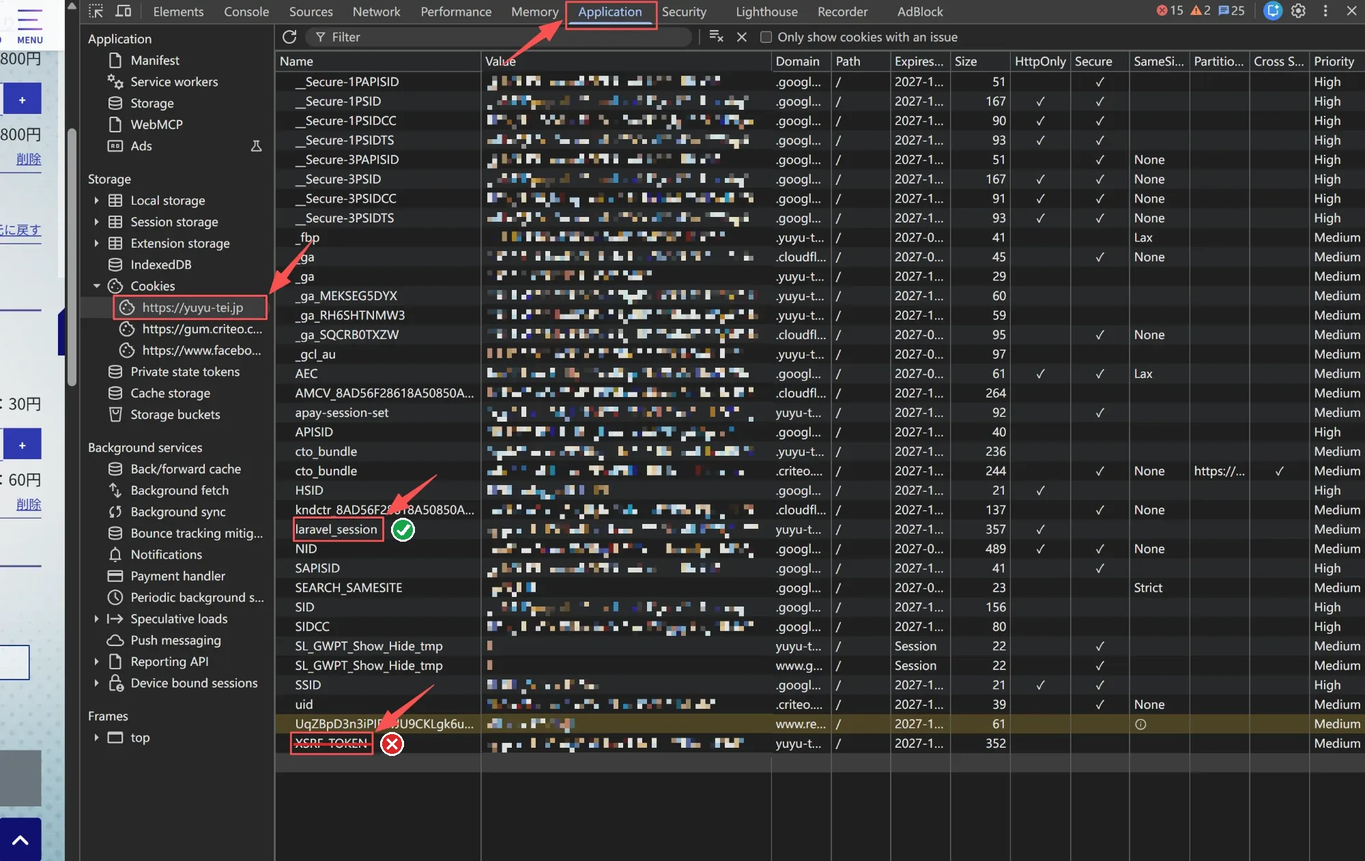
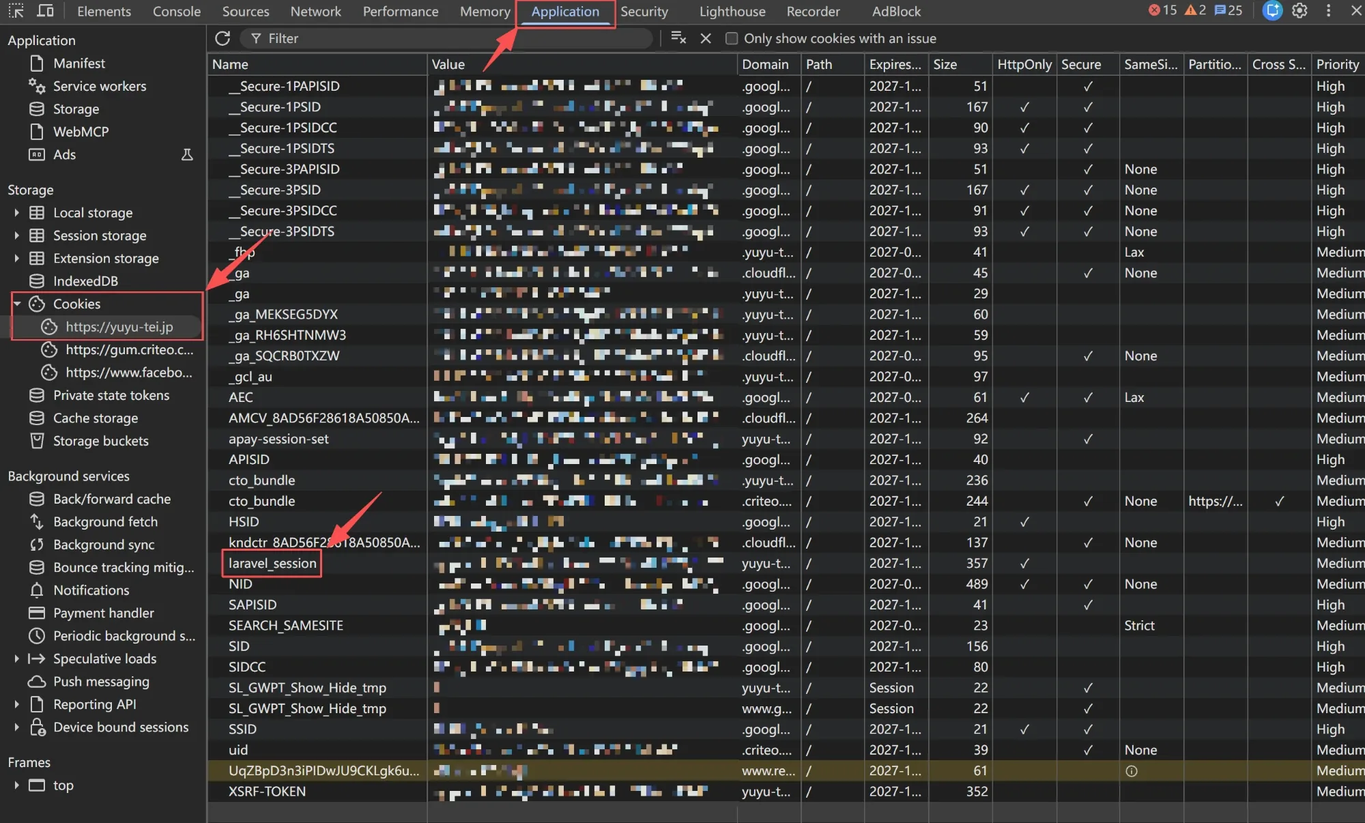
Optimize credentials settings.

diff --git a/src/tcg_toolkit/static/locales.js b/src/tcg_toolkit/static/locales.js
@@ -204,13 +204,27 @@ export const messages = {
     "cart_out_of_date": "The cart changed elsewhere and was refreshed.",
     "cart_ambiguous": "Several matching cart rows; adjust it on YuYu-Tei.",
     "cart_failed": "Cart request failed. Please retry.",
-    "cart_settings_title": "YuYu-Tei cart",
-    "cart_settings_intro": "Used to add cards to your YuYu-Tei cart from search results. Credentials are kept only in this browser tab (sessionStorage) and are cleared when you close the tab or sign out. This site sends them with each cart request and never stores them.",
+    "cart_settings_title": "YuYu-Tei login credentials",
+    "cart_settings_intro_lead": "Used to work directly with your YuYu-Tei cart; if not set up, only cart features are affected.",
+    "cart_settings_intro": "Credentials are stored only locally in this browser tab (sessionStorage) and are cleared when you close the tab or sign out. This site sends them only with each cart request and never stores them on the server.",
     "cart_curl_label": "Import from cURL",
-    "cart_curl_help": "In YuYu-Tei DevTools → Network, copy a cart request as cURL (bash or cmd) and paste it here. Parsed and saved only in this tab; importing sends no request.",
+    "cart_curl_step_1": "On yuyu-tei.jp, open developer tools (F12) → Network, then add, change or remove any item in your cart so a cart_service request appears.",
+    "cart_curl_step_2": "Right-click the cart_service request → Copy → Copy as cURL (cmd) or Copy as cURL (bash).",
+    "cart_curl_figure": "Network → right-click cart_service → Copy → Copy as cURL (cookie values blurred).",
+    "cart_curl_figure_alt": "Developer tools Network panel with the cart_service request selected and its context menu open at Copy as cURL; the Cookie header value is blurred",
+    "cart_curl_step_3": "Paste it into the box above and choose “Save and verify”. The copied text contains your login cookie; do not share it.",
+    "cart_unverified_badge": "Saved · not verified",
+    "cart_settings_collapse": "Collapse",
+    "cart_settings_edit": "Reconfigure",
+    "cart_credentials_need_update": "Needs updating",
+    "cart_route_fallback": "Alternative",
+    "cart_route_curl": "Option 2: Import from cURL",
+    "cart_route_or": "or",
+    "cart_route_manual_desc": "Copy two values from your browser's developer tools. Works in every browser; see “How to find these” below.",
+    "cart_route_recommended": "Recommended",
+    "cart_route_manual": "Option 1: Cookie + CSRF token",
+    "cart_curl_help": "In YuYu-Tei DevTools → Network, copy a cart request as cURL (bash or cmd) and paste it here.",
     "cart_curl_placeholder": "Paste the copied curl command",
-    "cart_curl_save": "Extract and save locally",
-    "cart_curl_saved": "Saved in this tab. Credentials have not been verified.",
     "cart_curl_invalid": "Could not extract credentials. Copy a complete cURL request containing one laravel_session Cookie and one X-CSRF-TOKEN header.",
     "cart_cookie": "Cookie (laravel_session)",
     "cart_cookie_placeholder": "laravel_session value, or the whole Cookie header",
@@ -219,15 +233,17 @@ export const messages = {
     "cart_help_title": "How to find these",
     "cart_help_1": "Sign in to yuyu-tei.jp in this browser and press F12 to open developer tools.",
     "cart_help_2": "Cookie: open Application → Storage → Cookies → https://yuyu-tei.jp, find laravel_session and double-click its Value to copy it. Paste it exactly as shown; do not decode %3D and similar.",
-    "cart_help_figure": "Use laravel_session (✓). XSRF-TOKEN (✗) is not the CSRF token.",
-    "cart_help_figure_alt": "Developer tools Application panel listing yuyu-tei.jp cookies, with laravel_session marked as the one to copy and XSRF-TOKEN crossed out",
+    "cart_help_figure": "Application → Cookies → https://yuyu-tei.jp: copy the Value of laravel_session.",
+    "cart_help_figure_alt": "Developer tools Application panel listing yuyu-tei.jp cookies, with Cookies, https://yuyu-tei.jp and laravel_session highlighted",
+    "cart_help_console_alt": "Developer tools Console running the csrf-token command, with the returned token highlighted (value blurred)",
+    "cart_help_console_figure": "Console: paste the line, press Enter, and copy the text between the quotes.",
     "cart_help_xsrf": "The XSRF-TOKEN cookie is Laravel's encrypted copy of the token (about 340 characters) and is always rejected here.",
     "cart_help_3": "CSRF token: on any yuyu-tei.jp page in the same session, switch to Console, run the line below and copy the result without the quotes:",
     "cart_help_3_note": "It is usually 40 characters. Alternatively, view the page source and copy the content of <meta name=\"csrf-token\">.",
     "cart_help_4": "If YuYu-Tei signs you out, or you sign in again there, copy both values again.",
     "cart_save": "Save and verify",
-    "cart_clear": "Clear",
-    "cart_configured": "Set up in this tab",
+    "cart_clear": "Clear saved credentials",
+    "cart_configured": "Credentials set",
     "cart_not_configured": "Not set up",
     "cart_verifying": "Verifying with YuYu-Tei…",
     "cart_verified": "Verified · {quantity} in cart",
@@ -459,13 +475,27 @@ export const messages = {
     "cart_out_of_date": "购物车已在别处变化，已刷新。",
     "cart_ambiguous": "购物车中有多条相同商品，请在游游亭调整。",
     "cart_failed": "购物车操作失败，请重试。",
-    "cart_settings_title": "游游亭购物车",
-    "cart_settings_intro": "用于在搜索结果中加购到你的游游亭购物车。凭据仅保存在当前浏览器标签页（sessionStorage），关闭标签页或退出登录即清除；本站只在每次购物车请求时随请求发送，不会保存。",
+    "cart_settings_title": "游游亭登录凭据",
+    "cart_settings_intro_lead": "用于直接操作你的游游亭购物车，如未配置仅影响购物车相关功能。",
+    "cart_settings_intro": "凭据只本地保存在当前浏览器标签页（sessionStorage），关闭标签页或退出登录即清除。本站只在每次购物车请求时随请求发送，不会在服务器保存。",
     "cart_curl_label": "从 cURL 导入",
-    "cart_curl_help": "在游游亭开发者工具 Network 中，将购物车请求复制为 cURL（bash 或 cmd）并粘贴。仅在当前标签页解析和保存，导入时不发送请求。",
+    "cart_curl_step_1": "在 yuyu-tei.jp 打开开发者工具（F12）→ 网络（Network），然后在购物车中加购、修改或删除任意商品，使列表中出现 cart_service 请求。",
+    "cart_curl_step_2": "右键 cart_service 请求 → 复制（Copy）→「以 cURL 格式复制（cmd）」或「以 cURL 格式复制（bash）」。",
+    "cart_curl_figure": "Network → 右键 cart_service → Copy → Copy as cURL（Cookie 值已打码）。",
+    "cart_curl_figure_alt": "开发者工具 Network 面板中选中 cart_service 请求并打开右键菜单的 Copy as cURL，Cookie 请求头的值已打码",
+    "cart_curl_step_3": "粘贴到上方输入框，点击「保存并验证」。复制的内容包含你的登录 Cookie，请勿分享给他人。",
+    "cart_unverified_badge": "已保存 · 待验证",
+    "cart_settings_collapse": "收起",
+    "cart_settings_edit": "重新配置",
+    "cart_credentials_need_update": "凭据需要更新",
+    "cart_route_fallback": "备选",
+    "cart_route_curl": "方式二：从 cURL 导入",
+    "cart_route_or": "或",
+    "cart_route_manual_desc": "从浏览器开发者工具复制两项值，适用于所有浏览器；获取方法见下方「如何获取」。",
+    "cart_route_recommended": "推荐",
+    "cart_route_manual": "方式一：Cookie + CSRF Token",
+    "cart_curl_help": "在游游亭开发者工具 Network 中，将购物车请求复制为 cURL（bash 或 cmd）并粘贴。",
     "cart_curl_placeholder": "粘贴复制的 curl 命令",
-    "cart_curl_save": "提取并保存到本地",
-    "cart_curl_saved": "已保存到当前标签页，凭据尚未验证。",
     "cart_curl_invalid": "无法提取凭据，请复制包含唯一 laravel_session Cookie 和 X-CSRF-TOKEN 请求头的完整 cURL 请求。",
     "cart_cookie": "Cookie（laravel_session）",
     "cart_cookie_placeholder": "laravel_session 的值，或完整 Cookie 请求头",
@@ -474,15 +504,17 @@ export const messages = {
     "cart_help_title": "如何获取",
     "cart_help_1": "在本浏览器中登录 yuyu-tei.jp，按 F12 打开开发者工具。",
     "cart_help_2": "Cookie：进入「应用（Application）→ 存储 → Cookie → https://yuyu-tei.jp」，找到 laravel_session，双击其值（Value）复制。按原样粘贴，不要解码 %3D 等转义。",
-    "cart_help_figure": "复制 laravel_session（✓）；XSRF-TOKEN（✗）不是 CSRF Token。",
-    "cart_help_figure_alt": "开发者工具 Application 面板中 yuyu-tei.jp 的 Cookie 列表，laravel_session 标为需要复制，XSRF-TOKEN 被划掉",
+    "cart_help_figure": "应用（Application）→ Cookie → https://yuyu-tei.jp：复制 laravel_session 的值（Value）。",
+    "cart_help_figure_alt": "开发者工具 Application 面板中 yuyu-tei.jp 的 Cookie 列表，标出了 Cookie、https://yuyu-tei.jp 和 laravel_session",
+    "cart_help_console_alt": "开发者工具控制台中运行 csrf-token 命令，标出了返回的 Token（已打码）",
+    "cart_help_console_figure": "控制台（Console）：粘贴这行并按回车，复制引号中的内容。",
     "cart_help_xsrf": "Cookie 中的 XSRF-TOKEN 是 Laravel 加密后的 Token（约 340 个字符），填入会被拒绝。",
     "cart_help_3": "CSRF Token：在同一会话的任意 yuyu-tei.jp 页面切换到「控制台（Console）」，运行下面这行，复制输出结果（不含引号）：",
     "cart_help_3_note": "通常为 40 个字符。也可以查看网页源代码，复制 <meta name=\"csrf-token\"> 的 content 值。",
     "cart_help_4": "游游亭登录失效或重新登录后，请重新复制这两项。",
     "cart_save": "保存并验证",
-    "cart_clear": "清除",
-    "cart_configured": "已在本标签页配置",
+    "cart_clear": "清除已保存的凭据",
+    "cart_configured": "已配置凭据",
     "cart_not_configured": "未配置",
     "cart_verifying": "正在向游游亭验证…",
     "cart_verified": "验证成功 · 购物车共 {quantity} 张",

diff --git a/src/tcg_toolkit/static/style.css b/src/tcg_toolkit/static/style.css
@@ -680,13 +680,16 @@ button.cart-step:disabled:hover { background: transparent; }
 .cart-settings-text { flex: 1; min-width: 0; }
 .cart-settings-text h2 { font-size: 15px; }
 .cart-settings-text p { margin: 6px 0 0; font-size: 13px; line-height: 1.6; color: var(--color-text-muted); }
-.cart-state { flex: none; padding: 2px 8px; font-size: 11px; font-weight: 500; color: var(--color-text-muted); background: var(--color-surface-muted); border: 1px solid var(--color-border); border-radius: var(--radius-pill); }
-.cart-state.on { color: var(--color-text); border-color: var(--color-primary); }
+.cart-settings-meta { display: flex; flex: none; align-items: center; gap: 10px; }
+.cart-state { display: inline-flex; align-items: center; gap: 5px; flex: none; padding: 3px 10px; font-size: 12px; font-weight: 500; color: var(--color-text-muted); background: var(--color-surface-muted); border: 1px solid var(--color-border); border-radius: var(--radius-pill); }
+.cart-state.ok { color: var(--color-success); background: var(--color-success-bg); border-color: var(--color-success-border); }
+.cart-state.warn { color: var(--color-text); border-color: var(--color-border-strong); }
 .cart-settings-fields { display: grid; grid-template-columns: repeat(2, minmax(0, 1fr)); gap: 14px; }
 .cart-settings-fields input { margin-top: 6px; }
-.cart-help { font-size: 13px; color: var(--color-text-secondary); }
-.cart-help summary { cursor: pointer; font-weight: 500; }
-.cart-help ol { margin: 8px 0 0; padding-left: 20px; line-height: 1.7; }
+.cart-help { padding: 10px 14px; font-size: 13px; color: var(--color-text-secondary); background: var(--color-surface-muted); border: 1px solid var(--color-border); border-radius: var(--radius-md); }
+.cart-help summary { cursor: pointer; font-weight: 500; color: var(--color-text); }
+.cart-help[open] summary { margin-bottom: 12px; }
+.cart-help ol { display: grid; gap: 18px; margin: 0; padding-left: 22px; line-height: 1.65; }
 .cart-settings-actions { display: flex; align-items: center; justify-content: flex-end; gap: 10px; }
 #cart-settings-status { flex: 1; margin: 0; font-size: 13px; color: var(--color-text-muted); }
 #cart-settings-status.error { color: var(--color-text); font-weight: 500; }
@@ -696,19 +699,17 @@ button.cart-step:disabled:hover { background: transparent; }
   #cart-settings-status { flex-basis: 100%; }
   .section-heading .cart-summary { white-space: normal; }
 }
-.cart-help li { margin-bottom: 6px; }
-.cart-help-figure { margin: 10px 0 6px; }
+/* One rhythm inside each step: text, command, screenshot, notes. */
+.cart-help li > * + * { margin-top: 10px; }
+.cart-help-figure { margin: 0; }
 .cart-help-figure a { display: block; overflow: hidden; border: 1px solid var(--color-border); border-radius: var(--radius-md); cursor: zoom-in; }
 .cart-help-figure img { display: block; width: 100%; height: auto; }
 .cart-help-figure figcaption { margin-top: 6px; font-size: 12px; color: var(--color-text-muted); }
-.cart-help-warning { display: flex; align-items: flex-start; gap: 6px; margin: 6px 0 0; padding: 8px 10px; font-size: 12px; color: var(--color-text); background: var(--color-surface-muted); border: 1px solid var(--color-border-strong); border-left: 3px solid var(--color-primary); border-radius: var(--radius-md); }
+.cart-help-warning { display: flex; align-items: flex-start; gap: 6px; margin: 0; padding: 8px 10px; font-size: 12px; color: var(--color-text); background: var(--color-surface-muted); border: 1px solid var(--color-border-strong); border-left: 3px solid var(--color-primary); border-radius: var(--radius-md); }
 .cart-help-warning .bi { margin-top: 2px; }
-.cart-help-code { display: block; margin: 6px 0; padding: 8px 10px; overflow-x: auto; font-size: 12px; white-space: nowrap; user-select: all; background: var(--color-surface-sunken); border-radius: var(--radius-md); }
+.cart-help-code { display: block; margin: 0; padding: 8px 10px; overflow-x: auto; font-size: 12px; white-space: nowrap; user-select: all; background: var(--color-surface-sunken); border-radius: var(--radius-md); }
 .cart-help-note { display: block; font-size: 12px; color: var(--color-text-muted); }
 
-.cart-curl-import { display: grid; gap: 8px; margin-bottom: 18px; }
-.cart-curl-import textarea { width: 100%; box-sizing: border-box; min-width: 0; resize: vertical; padding: 10px; border: 1px solid var(--color-border); border-radius: 8px; background: var(--color-bg); color: var(--color-text); font: inherit; }
-.cart-curl-import button { justify-self: start; }
 
 /* Cart page */
 .nav-count { margin-left: auto; min-width: 20px; padding: 1px 6px; font-size: 11px; font-weight: 600; text-align: center; font-variant-numeric: tabular-nums; color: var(--color-on-primary); background: var(--color-primary); border-radius: var(--radius-pill); }
@@ -735,3 +736,28 @@ button.cart-step:disabled:hover { background: transparent; }
 #cart-panel .card .cart-line-total { display: inline-flex; align-items: flex-start; gap: 6px; }
 .cart-line-label { font-size: 12px; font-weight: 400; color: var(--color-text-muted); }
 #cart-subtotal .original-price { display: block; margin-top: 2px; font-size: 12px; letter-spacing: 0; }
+
+/* Credential routes: recommended Cookie + CSRF first, cURL import as the alternative */
+.cart-settings-body[hidden] { display: none; }
+#cart-settings-form { display: flex; flex-direction: column; gap: 16px; }
+.cart-route { display: flex; flex-direction: column; gap: 12px; padding: 16px; border: 1px solid var(--color-border); border-radius: var(--radius-lg); }
+.cart-route.recommended { border-color: var(--color-border-strong); box-shadow: var(--shadow-sm); }
+.cart-route-head { display: flex; align-items: center; gap: 8px; }
+.cart-route-head h3 { font-size: 14px; }
+.cart-route-tag { padding: 1px 8px; font-size: 11px; font-weight: 600; color: var(--color-on-primary); background: var(--color-primary); border-radius: var(--radius-pill); }
+.cart-route-tag.muted { color: var(--color-text-muted); background: var(--color-surface-muted); border: 1px solid var(--color-border); font-weight: 500; }
+.cart-route-desc { margin: -4px 0 0; font-size: 12px; line-height: 1.6; color: var(--color-text-muted); }
+.cart-route-actions { display: flex; justify-content: flex-end; }
+.cart-route textarea { width: 100%; box-sizing: border-box; min-width: 0; resize: vertical; padding: 10px 12px; font: 12px/1.5 var(--font-mono); color: var(--color-text); background: var(--color-surface); border: 1px solid var(--color-border-strong); border-radius: var(--radius-md); }
+.cart-route textarea:focus { outline: none; border-color: var(--color-focus); box-shadow: var(--focus-ring); }
+.cart-route-divider { display: flex; align-items: center; gap: 12px; font-size: 12px; color: var(--color-text-subtle); }
+.cart-route-divider::before, .cart-route-divider::after { content: ""; flex: 1; border-top: 1px solid var(--color-divider); }
+.cart-settings.collapsed { gap: 0; }
+@media (max-width: 700px) {
+  .cart-settings-head { flex-wrap: wrap; }
+  .cart-settings-meta { width: 100%; justify-content: space-between; }
+}
+button.cart-settings-toggle { width: 32px; height: 32px; border-radius: 50%; font-size: 15px; }
+button.cart-settings-toggle:hover { background: var(--color-hover); }
+/* No icon for neutral states: drop the empty element so the gap does not offset the text. */
+#cart-settings-state-icon:not([class~="bi"]) { display: none; }

diff --git a/src/tcg_toolkit/static/cart-settings.js b/src/tcg_toolkit/static/cart-settings.js
@@ -4,53 +4,85 @@ import {t, getLanguage} from './i18n.js';
 import {parseCurlCredentials} from './curl-credentials.js';
 const $ = id => document.getElementById(id);
 
+// Errors that mean the saved values themselves are wrong, not a passing outage.
+const CREDENTIAL_ERRORS = ['cart_credentials_rejected', 'cart_invalid_credentials', 'cart_need_credentials'];
+
 export function bindCartSettings(client, cart) {
-  let statusKey = '', parameters = {}, verifying = false;
+  // expanded: null follows the state (open until configured), true/false is the user's choice.
+  let statusKey = '', parameters = {}, verifying = false, expanded = null;
   function render() {
     let configured = false;
     try { configured = client.hasCredentials(); } catch { /* signed out */ }
-    $('cart-settings-state').textContent = t(configured ? 'cart_configured' : 'cart_not_configured');
-    $('cart-settings-state').classList.toggle('on', configured);
-    $('cart-clear').disabled = !configured || verifying;
-    $('cart-save').disabled = verifying;
-    $('cart-curl-save').disabled = verifying;
+    // Finish a verification first, so this same render already shows its outcome.
     if (verifying && !cart.state.loading) {
       verifying = false;
       const error = cart.state.error;
       statusKey = error || 'cart_verified';
+      // Verified: fold the panel away; a failure keeps it open for corrections.
+      expanded = error ? true : null;
       parameters = {quantity: (cart.state.totalQuantity ?? 0).toLocaleString(getLanguage())};
-      $('cart-curl-save').disabled = false;
-      $('cart-save').disabled = false; $('cart-clear').disabled = !configured;
     }
+    const state = cart.state;
+    const rejected = configured && CREDENTIAL_ERRORS.includes(state.error);
+    // A successful read of the shop's cart is what verifies the saved values.
+    const verified = configured && !rejected && !state.loading && !state.error
+      && (state.totalQuantity != null || (state.rows?.length ?? 0) > 0 || state.complete === false);
+    if (rejected) expanded = true;
+    const open = verifying || (expanded ?? !configured);
+    $('cart-settings-state-icon').className = verified ? 'bi bi-check-circle-fill' : rejected ? 'bi bi-exclamation-circle' : '';
+    $('cart-settings-state-label').textContent = t(!configured ? 'cart_not_configured'
+      : rejected ? 'cart_credentials_need_update' : verified ? 'cart_configured' : 'cart_unverified_badge');
+    $('cart-settings-state').classList.toggle('ok', verified);
+    $('cart-settings-state').classList.toggle('warn', rejected);
+    $('cart-settings-body').hidden = !open;
+    $('cart-settings').classList.toggle('collapsed', !open);
+    $('cart-settings-toggle').hidden = verifying;
+    $('cart-settings-toggle').setAttribute('aria-expanded', String(open));
+    // Icon-only: down expands, up collapses; the words stay as its accessible name.
+    $('cart-settings-toggle-icon').className = `bi ${open ? 'bi-chevron-up' : 'bi-chevron-down'}`;
+    $('cart-settings-toggle').setAttribute('aria-label', t(open ? 'cart_settings_collapse' : 'cart_settings_edit'));
+    $('cart-settings-toggle').title = t(open ? 'cart_settings_collapse' : 'cart_settings_edit');
+    // Only offered once something is saved; nothing to clear otherwise.
+    $('cart-clear').hidden = !configured;
+    $('cart-clear').disabled = verifying;
+    $('cart-save').disabled = verifying;
+    $('cart-curl-save').disabled = verifying;
     $('cart-settings-status').textContent = statusKey ? t(statusKey, parameters) : '';
     $('cart-settings-status').classList.toggle('error', Boolean(cart.state.error) && statusKey === cart.state.error);
   }
-  $('cart-curl-save').addEventListener('click', () => {
+  // Both routes end here: store this tab's credentials, then read the cart once to verify them.
+  function saveAndVerify(credentials) {
     try {
-      const credentials = parseCurlCredentials($('cart-curl').value);
       client.saveCredentials(credentials);
-      reset();
-      cart.clear({syncCredentials: true});
-      statusKey = 'cart_curl_saved';
-    } catch (error) {
-      statusKey = error.message === 'cart_curl_invalid' ? 'cart_curl_invalid'
-        : error.message === 'credential_storage_unavailable' ? 'cart_storage_unavailable' : 'cart_failed';
-    }
-    render();
-  });
-  $('cart-settings-form').addEventListener('submit', event => {
-    event.preventDefault();
-    const cookie = $('cart-cookie').value.trim(), csrf = $('cart-csrf').value.trim();
-    if (!cookie || !csrf) { statusKey = 'cart_invalid_input'; render(); return; }
-    try {
-      client.saveCredentials({cookie, csrf_token: csrf});
     } catch (error) {
       statusKey = error.message === 'credential_storage_unavailable' ? 'cart_storage_unavailable' : 'cart_failed';
       render(); return;
     }
     $('cart-cookie').value = ''; $('cart-csrf').value = ''; $('cart-curl').value = '';
     verifying = true; statusKey = 'cart_verifying';
+    // refresh() marks the cart as loading first, so this render shows the pending check.
     cart.refresh();
+    render();
+  }
+  $('cart-curl-save').addEventListener('click', () => {
+    let credentials;
+    try {
+      // Parsing only: the pasted command itself is never run.
+      credentials = parseCurlCredentials($('cart-curl').value);
+    } catch {
+      statusKey = 'cart_curl_invalid'; render(); return;
+    }
+    saveAndVerify(credentials);
+  });
+  $('cart-settings-toggle').addEventListener('click', () => {
+    expanded = $('cart-settings-body').hidden;
+    render();
+  });
+  $('cart-settings-form').addEventListener('submit', event => {
+    event.preventDefault();
+    const cookie = $('cart-cookie').value.trim(), csrf = $('cart-csrf').value.trim();
+    if (!cookie || !csrf) { statusKey = 'cart_invalid_input'; render(); return; }
+    saveAndVerify({cookie, csrf_token: csrf});
   });
   $('cart-clear').addEventListener('click', () => {
     try { client.clearCredentials(); } catch { /* signed out: nothing stored */ }
@@ -59,7 +91,7 @@ export function bindCartSettings(client, cart) {
   });
   // Signing out or switching account must not leave the previous status behind.
   function reset() {
-    statusKey = ''; verifying = false;
+    statusKey = ''; verifying = false; expanded = null;
     $('cart-cookie').value = ''; $('cart-csrf').value = ''; $('cart-curl').value = '';
   }
   return {render, reset};

diff --git a/src/tcg_toolkit/static/index.html b/src/tcg_toolkit/static/index.html
@@ -54,15 +54,14 @@
 <span id="account-status" role="alert"></span>
 </div>
 </section>
-<section class="panel cart-settings" aria-labelledby="cart-settings-title">
-<div class="cart-settings-head"><span class="account-icon"><i class="bi bi-cart3"></i></span><div class="cart-settings-text"><h2 id="cart-settings-title" data-i18n="cart_settings_title"></h2><p data-i18n="cart_settings_intro"></p></div><span id="cart-settings-state" class="cart-state"></span></div>
+<section class="panel cart-settings" id="cart-settings" aria-labelledby="cart-settings-title">
+<div class="cart-settings-head"><span class="account-icon"><i class="bi bi-cart3"></i></span><div class="cart-settings-text"><h2 id="cart-settings-title" data-i18n="cart_settings_title"></h2><p><strong data-i18n="cart_settings_intro_lead"></strong> <span data-i18n="cart_settings_intro"></span></p></div>
+<div class="cart-settings-meta"><span id="cart-settings-state" class="cart-state" role="status"><i id="cart-settings-state-icon" aria-hidden="true"></i><span id="cart-settings-state-label"></span></span><button type="button" id="cart-settings-toggle" class="icon-button cart-settings-toggle" aria-controls="cart-settings-body" hidden><i id="cart-settings-toggle-icon" class="bi bi-chevron-down" aria-hidden="true"></i></button></div></div>
+<div id="cart-settings-body" class="cart-settings-body">
 <form id="cart-settings-form" autocomplete="off" novalidate>
-<div class="cart-curl-import">
-<label class="field" for="cart-curl"><span data-i18n="cart_curl_label"></span></label>
-<p id="cart-curl-help" class="cart-help-note" data-i18n="cart_curl_help"></p>
-<textarea id="cart-curl" rows="4" maxlength="65536" autocomplete="off" spellcheck="false" aria-describedby="cart-curl-help" data-i18n-placeholder="cart_curl_placeholder"></textarea>
-<button type="button" id="cart-curl-save" class="secondary" data-i18n="cart_curl_save"></button>
-</div>
+<section class="cart-route recommended" aria-labelledby="cart-route-manual-title">
+<div class="cart-route-head"><h3 id="cart-route-manual-title" data-i18n="cart_route_manual"></h3><span class="cart-route-tag" data-i18n="cart_route_recommended"></span></div>
+<p class="cart-route-desc" data-i18n="cart_route_manual_desc"></p>
 <div class="cart-settings-fields">
 <label class="field"><span data-i18n="cart_cookie"></span><input id="cart-cookie" type="password" autocomplete="off" spellcheck="false" maxlength="16384" data-i18n-placeholder="cart_cookie_placeholder"/></label>
 <label class="field"><span data-i18n="cart_csrf"></span><input id="cart-csrf" type="password" autocomplete="off" spellcheck="false" maxlength="4096" data-i18n-placeholder="cart_csrf_placeholder"/></label>
@@ -71,17 +70,36 @@
 <ol>
 <li data-i18n="cart_help_1"></li>
 <li><span data-i18n="cart_help_2"></span>
-<figure class="cart-help-figure"><a href="./cart-help-cookies.webp" target="_blank" rel="noopener"><img src="./cart-help-cookies.webp" width="2000" height="1262" loading="lazy" decoding="async" data-i18n-alt="cart_help_figure_alt"/></a><figcaption data-i18n="cart_help_figure"></figcaption></figure>
+<figure class="cart-help-figure"><a href="./cart-help-cookies.webp" target="_blank" rel="noopener"><img src="./cart-help-cookies.webp" width="2000" height="1206" loading="lazy" decoding="async" data-i18n-alt="cart_help_figure_alt"/></a><figcaption data-i18n="cart_help_figure"></figcaption></figure>
 <p class="cart-help-warning"><i class="bi bi-exclamation-triangle"></i><span data-i18n="cart_help_xsrf"></span></p></li>
-<li><span data-i18n="cart_help_3"></span><code class="cart-help-code">document.querySelector('meta[name="csrf-token"]').content</code><span class="cart-help-note" data-i18n="cart_help_3_note"></span></li>
+<li><span data-i18n="cart_help_3"></span><code class="cart-help-code">document.querySelector('meta[name="csrf-token"]').content</code>
+<figure class="cart-help-figure"><a href="./cart-help-console.webp" target="_blank" rel="noopener"><img src="./cart-help-console.webp" width="2000" height="656" loading="lazy" decoding="async" data-i18n-alt="cart_help_console_alt"/></a><figcaption data-i18n="cart_help_console_figure"></figcaption></figure>
+<span class="cart-help-note" data-i18n="cart_help_3_note"></span></li>
 <li data-i18n="cart_help_4"></li>
 </ol></details>
+<div class="cart-route-actions"><button type="submit" id="cart-save"><i class="bi bi-check-lg"></i><span data-i18n="cart_save"></span></button></div>
+</section>
+<div class="cart-route-divider"><span data-i18n="cart_route_or"></span></div>
+<section class="cart-route" aria-labelledby="cart-route-curl-title">
+<div class="cart-route-head"><h3 id="cart-route-curl-title" data-i18n="cart_route_curl"></h3><span class="cart-route-tag muted" data-i18n="cart_route_fallback"></span></div>
+<p id="cart-curl-help" class="cart-route-desc" data-i18n="cart_curl_help"></p>
+<label class="sr-only" for="cart-curl" data-i18n="cart_curl_label"></label>
+<textarea id="cart-curl" rows="4" maxlength="65536" autocomplete="off" spellcheck="false" aria-describedby="cart-curl-help" data-i18n-placeholder="cart_curl_placeholder"></textarea>
+<details class="cart-help"><summary data-i18n="cart_help_title"></summary>
+<ol>
+<li data-i18n="cart_curl_step_1"></li>
+<li><span data-i18n="cart_curl_step_2"></span>
+<figure class="cart-help-figure"><a href="./cart-help-curl.webp" target="_blank" rel="noopener"><img src="./cart-help-curl.webp" width="2000" height="1165" loading="lazy" decoding="async" data-i18n-alt="cart_curl_figure_alt"/></a><figcaption data-i18n="cart_curl_figure"></figcaption></figure></li>
+<li data-i18n="cart_curl_step_3"></li>
+</ol></details>
+<div class="cart-route-actions"><button type="button" id="cart-curl-save"><i class="bi bi-check-lg"></i><span data-i18n="cart_save"></span></button></div>
+</section>
 <div class="cart-settings-actions">
 <p id="cart-settings-status" role="status" aria-live="polite"></p>
 <button type="button" id="cart-clear" class="secondary"><i class="bi bi-trash3"></i><span data-i18n="cart_clear"></span></button>
-<button type="submit" id="cart-save"><i class="bi bi-check-lg"></i><span data-i18n="cart_save"></span></button>
 </div>
 </form>
+</div>
 </section>
 <div class="account-grid">
 <section class="panel account-card"><span class="account-icon"><i class="bi bi-person-vcard"></i></span><h2 data-i18n="auth_profile"></h2><span class="soon" data-i18n="auth_coming"></span></section>

diff --git a/src/tcg_toolkit/static/theme.css b/src/tcg_toolkit/static/theme.css
@@ -48,6 +48,14 @@
   --color-favorite: var(--gold-500);
   --color-favorite-hover: var(--gold-400);
 
+  /* Status: confirmed / working state (e.g. verified cart credentials) */
+  --green-50: #f0fdf4;
+  --green-200: #bbf7d0;
+  --green-700: #15803d;
+  --color-success: var(--green-700);
+  --color-success-bg: var(--green-50);
+  --color-success-border: var(--green-200);
+
   /* Rarity badges (tiers from rarities.js) */
   --rarity-normal: var(--color-primary);
   --rarity-normal-text: var(--color-on-primary);
